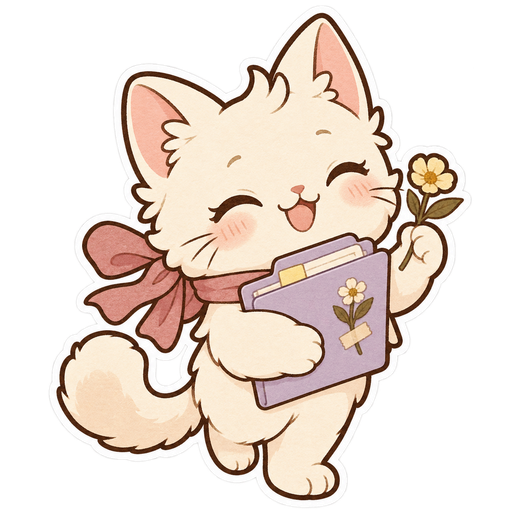
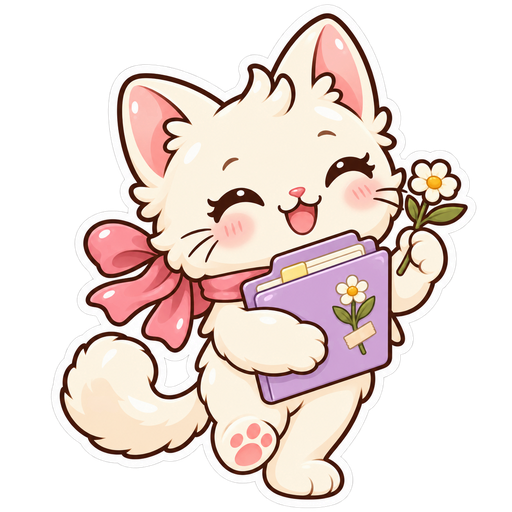
fix(assets): Polara v0.46.1 - align Soft Archive Poca mascot style

Changed region(s): [[0.0938, 0.0, 0.9375, 1.0], [0.4062, 0.1875, 0.4688, 0.25]]

diff --git a/CHANGELOG.md b/CHANGELOG.md
@@ -5,6 +5,14 @@ Lihat aturan lengkap di `../../KONVENSI-VERSI.md`.
 
 ## [Unreleased]
 
+## [0.46.1] - 2026-10-03
+
+### Fixed
+- Poca Soft Archive exclusive diremaster agar mengikuti gaya glossy chibi Poca produksi, dengan siluet folder lavender dan bunga tetap dipertahankan.
+
+### Validation
+- Runtime sticker tetap 512×512, transparan, alpha bersih, dan provenance diperbarui.
+
 ## [0.46.0] - 2026-10-03
 
 ### Added
